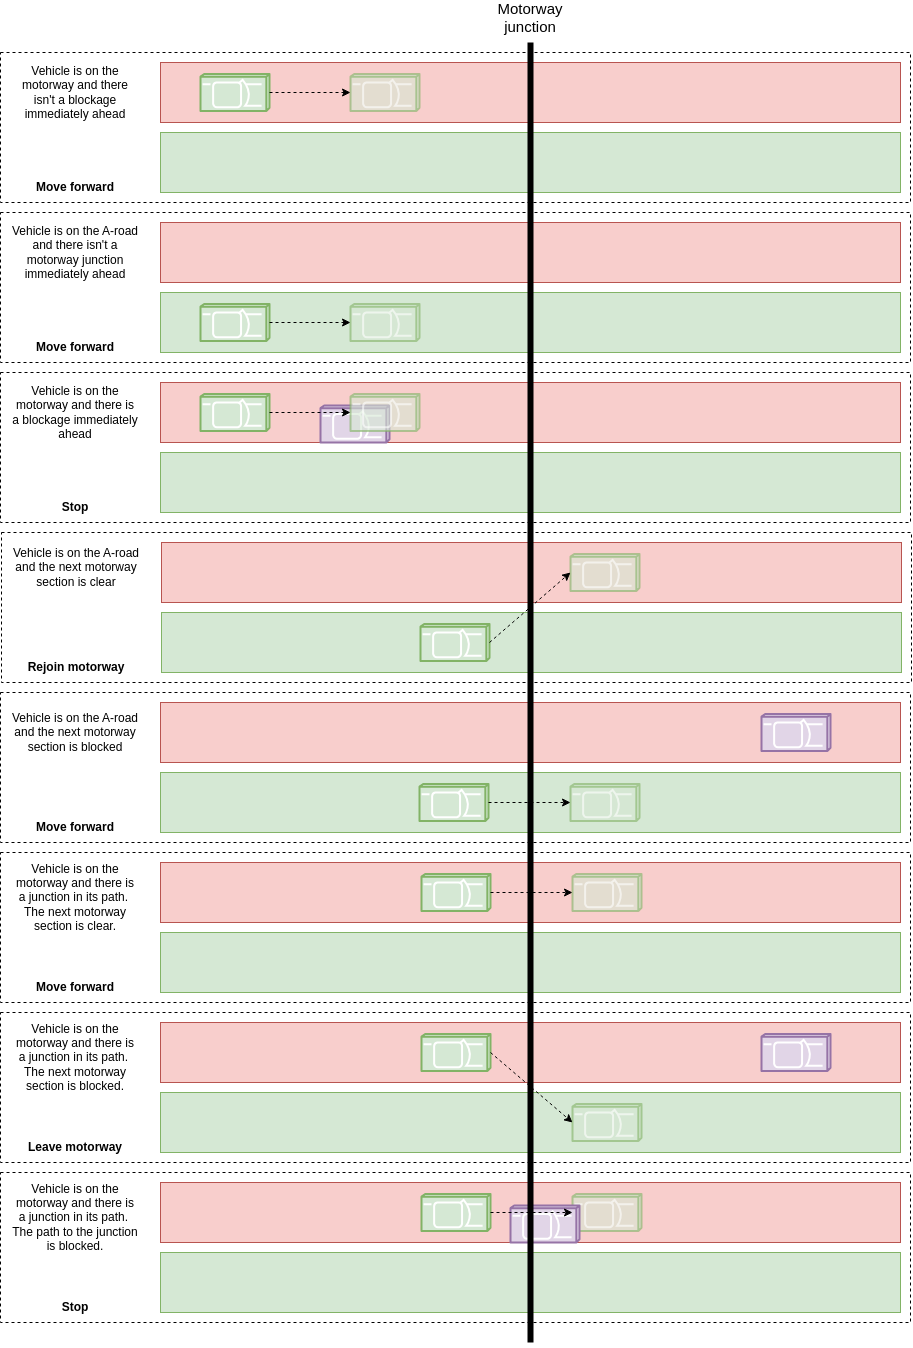
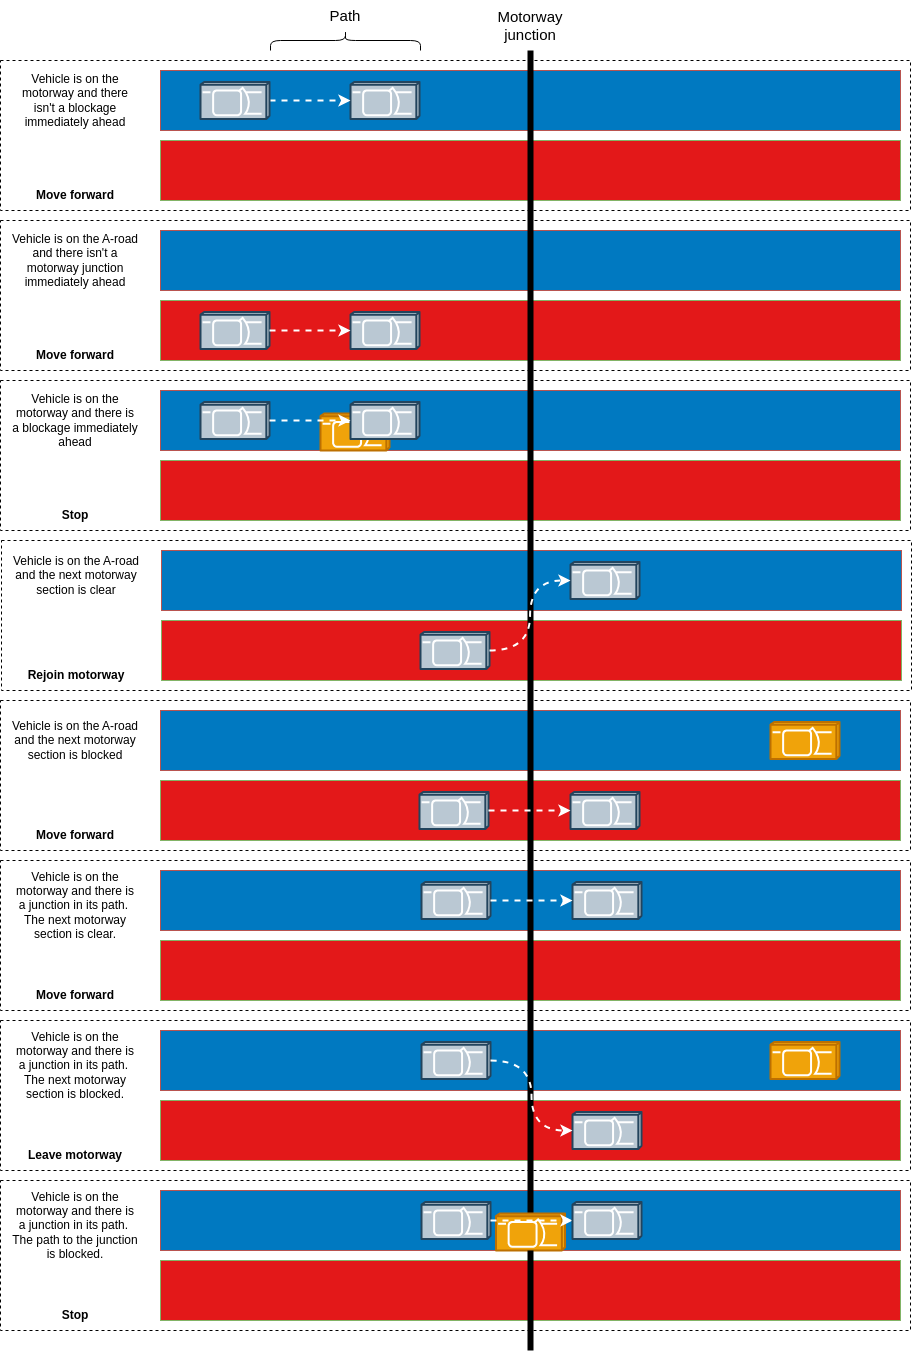
Correct typos and change image colours

diff --git a/C/motorway-queue/readme.md b/C/motorway-queue/readme.md
@@ -1,6 +1,6 @@
 # Motorway Journey Simulator
 
-A vehicle driving along the M5 motorway going from junction 14 to junction 11A travels at a constant speed for the journey. Suppose that there is a chance that the route between two junctions has a blockage (e.g. due to congestion), but that if the driver knows there is congestion after the next junction that they can divert onto an A-road. How is the journey time is affected by the vehicle's speed, probability of a blockage occurring and the duration of a blockage?
+A vehicle driving along the M5 motorway going from junction 14 to junction 11A travels at a constant speed for the journey. Suppose that there is a chance that the route between two junctions has a blockage (e.g. due to congestion), but that if the driver knows there is congestion after the next junction they can divert onto an A-road. How is the journey time affected by the vehicle's speed, probability of a blockage occurring and the duration of a blockage?
 
 The four motorway junctions on the M5 are illustrated below. There is an A-road that runs parallel to each motorway section that is assumed to allow the vehicle to travel between the junctions covering the same distance and at the same constant speed as on the motorway.
 
